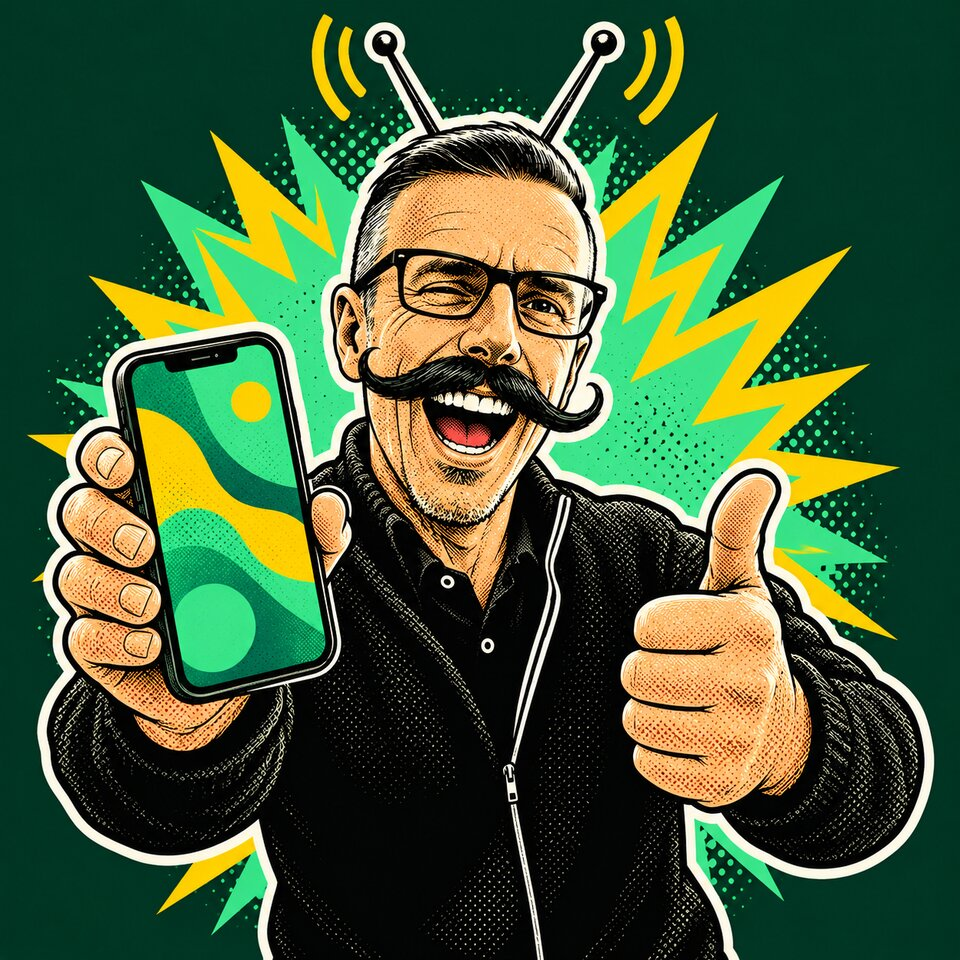
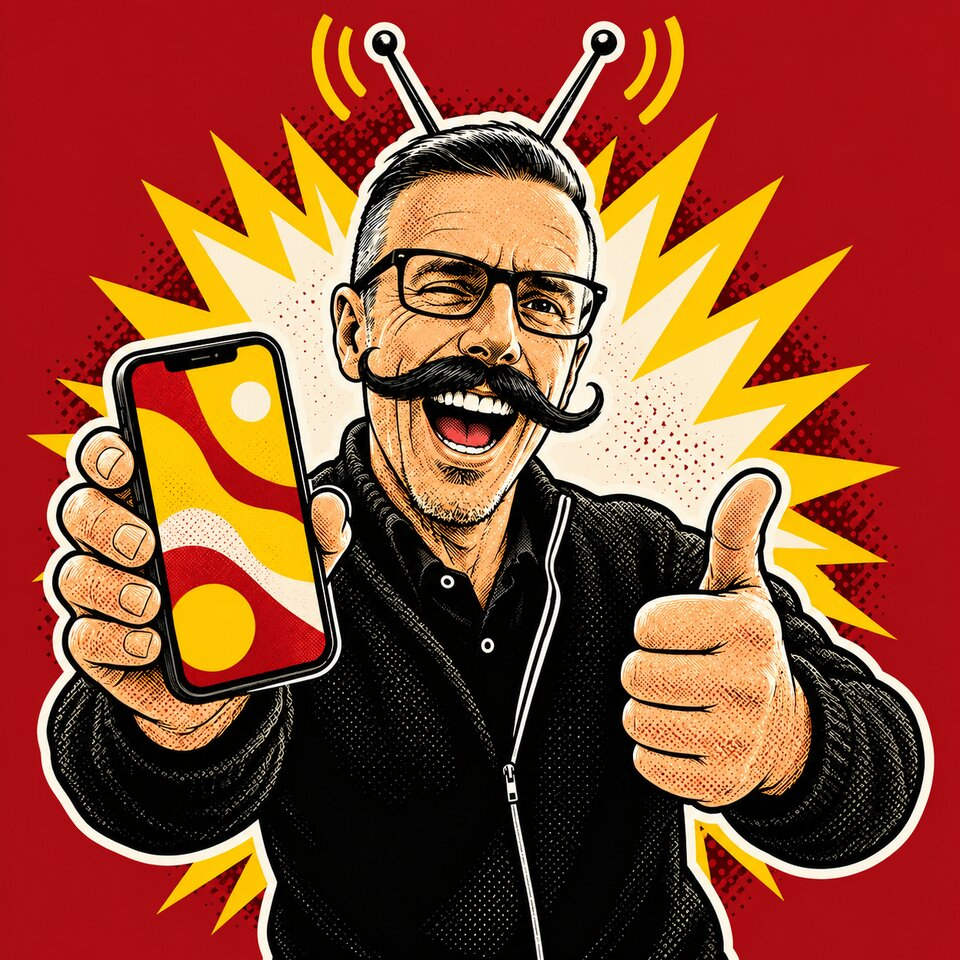
style(redona): recolour the mascot and TV screen to Bergamo red and yellow
The mascot art and the TV screen still carried the old green; green now appears only in the logo octagon and the under-the-hood terminal. The closing sticker turns yellow so it reads against the red art.

diff --git a/src/redona/redona.css b/src/redona/redona.css
@@ -12,7 +12,7 @@
   /* Bergamo: giallo e rosso, the city's colours since the XV century. */
   --rb-bg: #b4121f;
   --rb-bg-2: #7e0a15;
-  --rb-screen: #013424;
+  --rb-screen: #5a0710;
   --rb-mint: #ffd23f;
   --rb-emerald: #10b981;
   --rb-deep: #b4121f;
@@ -920,3 +920,5 @@ html, body { overflow-x: clip; }
 .rb-who__list li::after { color: var(--rb-ink); }
 .rb-who__list li:hover { color: var(--rb-bg); }
 .rb-who__list .rb-who__you { color: var(--rb-bg); }
+
+.rb-sticker { background: var(--rb-yellow); color: var(--rb-ink); }
